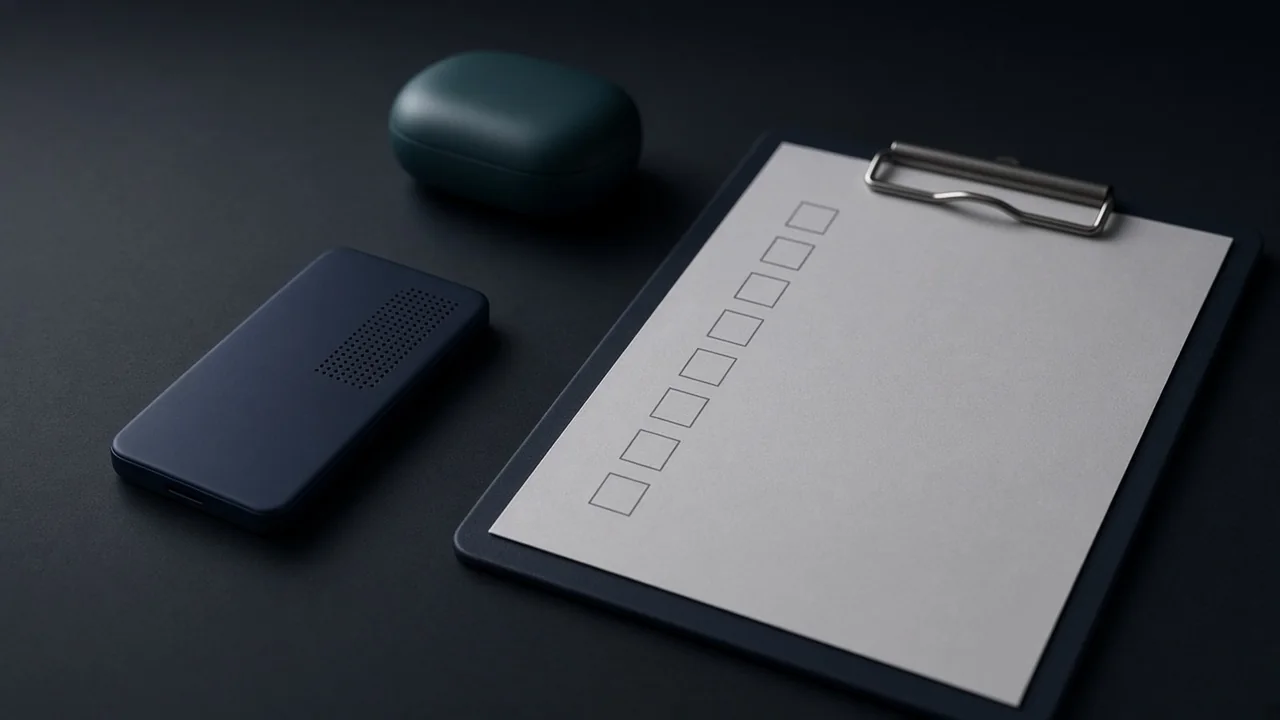
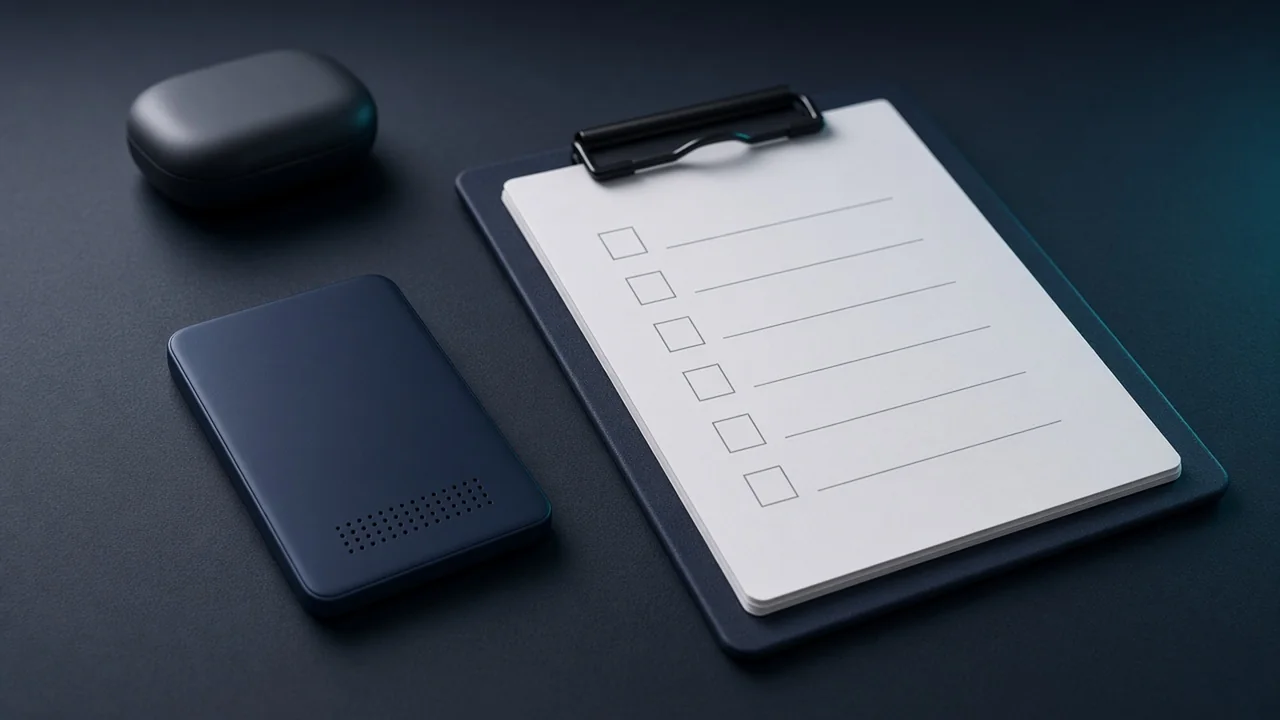
seo: refresh enterprise AI procurement checklist CTR copy and hero (#27)
Ship the Oct 2026 meta and China-to-buyer body on the existing checklist URL, and replace the featured still and eight-step diagram with the gated Grok assets.

diff --git a/content/i18n/resources/en/ai-procurement-checklist.md b/content/i18n/resources/en/ai-procurement-checklist.md
@@ -1,6 +1,8 @@
 Define the business task, the evidence you will trust, the exact SKU and region, the full cost of ownership, and who owns support — before you compare a China-origin AI hardware quotation.
 
-This page is the CNPS.AI **China → buyer** method for enterprise AI procurement. It is written for foreign and enterprise buyers evaluating a China-origin device supplier (for example TicNote recording hardware published on CNPS.AI), not a generic consulting checklist. Availability, commercial terms, and implementation scope are confirmed during quotation. Industry references elsewhere on this site are not claims that CNPS delivered those projects.
+This page is the CNPS.AI **China → buyer** **AI procurement checklist** for **enterprise** buyers (as of **8 October 2026**). It is written for foreign and enterprise buyers evaluating a China-origin device supplier (for example TicNote recording hardware published on CNPS.AI), not a generic consulting checklist. Availability, commercial terms, and implementation scope are confirmed during quotation. Industry references elsewhere on this site are not claims that CNPS delivered those projects.
+
+If you need the public-body path instead, use the sister page once: [AI procurement checklist for public sector: China-origin hardware path](https://www.cnps.ai/en/resources/ai-procurement-checklist-public-sector).
 
 ## Who this checklist is for
 
@@ -9,6 +11,7 @@ Use this checklist when you are:
 - Buying **team or channel sample** AI recording devices, or scoping a small hardware pilot from a China supply path
 - Comparing **unit price** against subscriptions, logistics, destination charges, training, and support
 - Deciding whether to **sample first** or jump to a bulk purchase order
+- Searching for an **enterprise AI procurement checklist** that freezes the job before SKU shopping
 
 If you already know you need a UAE/KSA recording path with bilingual meeting-notes gates, use the dedicated Gulf sourcing method after you freeze the workflow here: [Source China AI recording hardware for UAE/KSA without skipping the pilot](https://www.cnps.ai/en/guides/china-to-gulf-ai-recording-sourcing). If your project is a camera / edge site, complete site readiness before selecting a box: [UAE/KSA edge AI site readiness before you pick a box](https://www.cnps.ai/en/guides/uae-ksa-edge-ai-site-readiness).
 
@@ -135,13 +138,13 @@ Share those details through [Start a conversation](https://www.cnps.ai/en/reques
 | Risk | Brand reputation | Region / radio / data-flow / RMA path |
 | Scale | Bulk PO after demo | Written acceptance on a small pilot |
 
-For the wider CNPS research framing (why overseas buyers place orders, RFQ fields, pilots, compliance gates, and revision history), read the companion once: [China AI: the CNPS global expansion playbook](https://www.cnps.ai/en/resources/china-ai-export-playbook).
+For the wider CNPS research framing (why overseas buyers place orders, RFQ fields, pilots, compliance gates, and revision history), read the companion once: [China AI export playbook for overseas buyers](https://www.cnps.ai/en/resources/china-ai-export-playbook).
 
 ## FAQ
 
 ### What is an AI procurement checklist for enterprise buyers?
 
-It is a decision sequence you run before comparing quotations: freeze the job and acceptance test, demand evidence that matches that decision, lock SKU and region, price the full cost of ownership, confirm support and compliance documents, run a small pilot, then send a structured enquiry. This page applies that sequence to **China-origin AI hardware** paths CNPS publishes — not to abstract model selection alone.
+It is a decision sequence you run before comparing quotations: freeze the job and acceptance test, demand evidence that matches that decision, lock SKU and region, price the full cost of ownership, confirm support and compliance documents, run a small pilot, then send a structured enquiry. An **enterprise AI procurement checklist** on this page applies that sequence to **China-origin AI hardware** paths CNPS publishes — not to abstract model selection alone. Method text last reviewed **8 October 2026**.
 
 ### How is enterprise AI procurement different from buying a retail AI recorder?
 
@@ -163,9 +166,9 @@ Subscriptions or transcription minutes, training time, freight and destination c
 
 Request documents that match the **exact model** you will receive, a clear company contact path, a data-flow explanation you can review, and written support terms. Treat missing SKU-matched evidence as a blocker. Do not accept “similar model” certificates or unverified AI performance percentages as substitutes.
 
-### When should I use the Gulf recording guide instead of this page alone?
+### When should I use the public-sector checklist or the Gulf recording guide instead of this page alone?
 
-When your destination is UAE or KSA **and** your workflow is meeting notes / recording hardware with bilingual quality gates. Complete this checklist’s job and sample gates first, then follow the Gulf sourcing method linked above before a bulk PO. Edge camera projects should use the UAE/KSA site readiness guide before selecting hardware.
+Use the public-sector sister page linked in the opening (exact title: **AI procurement checklist for public sector: China-origin hardware path**) when a public body needs purpose, data-protection, audit, and accountable-acceptance gates. Use the Gulf recording guide when your destination is UAE or KSA **and** your workflow is meeting notes / recording hardware with bilingual quality gates — after you freeze the job here. Edge camera projects should use the UAE/KSA site readiness guide before selecting hardware.
 
 ## Next step
 

diff --git a/content/resources/ai-procurement-checklist.md b/content/resources/ai-procurement-checklist.md
@@ -1,6 +1,8 @@
 Define the business task, the evidence you will trust, the exact SKU and region, the full cost of ownership, and who owns support — before you compare a China-origin AI hardware quotation.
 
-This page is the CNPS.AI **China → buyer** method for enterprise AI procurement. It is written for foreign and enterprise buyers evaluating a China-origin device supplier (for example TicNote recording hardware published on CNPS.AI), not a generic consulting checklist. Availability, commercial terms, and implementation scope are confirmed during quotation. Industry references elsewhere on this site are not claims that CNPS delivered those projects.
+This page is the CNPS.AI **China → buyer** **AI procurement checklist** for **enterprise** buyers (as of **8 October 2026**). It is written for foreign and enterprise buyers evaluating a China-origin device supplier (for example TicNote recording hardware published on CNPS.AI), not a generic consulting checklist. Availability, commercial terms, and implementation scope are confirmed during quotation. Industry references elsewhere on this site are not claims that CNPS delivered those projects.
+
+If you need the public-body path instead, use the sister page once: [AI procurement checklist for public sector: China-origin hardware path](https://www.cnps.ai/en/resources/ai-procurement-checklist-public-sector).
 
 ## Who this checklist is for
 
@@ -9,6 +11,7 @@ Use this checklist when you are:
 - Buying **team or channel sample** AI recording devices, or scoping a small hardware pilot from a China supply path
 - Comparing **unit price** against subscriptions, logistics, destination charges, training, and support
 - Deciding whether to **sample first** or jump to a bulk purchase order
+- Searching for an **enterprise AI procurement checklist** that freezes the job before SKU shopping
 
 If you already know you need a UAE/KSA recording path with bilingual meeting-notes gates, use the dedicated Gulf sourcing method after you freeze the workflow here: [Source China AI recording hardware for UAE/KSA without skipping the pilot](https://www.cnps.ai/en/guides/china-to-gulf-ai-recording-sourcing). If your project is a camera / edge site, complete site readiness before selecting a box: [UAE/KSA edge AI site readiness before you pick a box](https://www.cnps.ai/en/guides/uae-ksa-edge-ai-site-readiness).
 
@@ -135,13 +138,13 @@ Share those details through [Start a conversation](https://www.cnps.ai/en/reques
 | Risk | Brand reputation | Region / radio / data-flow / RMA path |
 | Scale | Bulk PO after demo | Written acceptance on a small pilot |
 
-For the wider CNPS research framing (why overseas buyers place orders, RFQ fields, pilots, compliance gates, and revision history), read the companion once: [China AI: the CNPS global expansion playbook](https://www.cnps.ai/en/resources/china-ai-export-playbook).
+For the wider CNPS research framing (why overseas buyers place orders, RFQ fields, pilots, compliance gates, and revision history), read the companion once: [China AI export playbook for overseas buyers](https://www.cnps.ai/en/resources/china-ai-export-playbook).
 
 ## FAQ
 
 ### What is an AI procurement checklist for enterprise buyers?
 
-It is a decision sequence you run before comparing quotations: freeze the job and acceptance test, demand evidence that matches that decision, lock SKU and region, price the full cost of ownership, confirm support and compliance documents, run a small pilot, then send a structured enquiry. This page applies that sequence to **China-origin AI hardware** paths CNPS publishes — not to abstract model selection alone.
+It is a decision sequence you run before comparing quotations: freeze the job and acceptance test, demand evidence that matches that decision, lock SKU and region, price the full cost of ownership, confirm support and compliance documents, run a small pilot, then send a structured enquiry. An **enterprise AI procurement checklist** on this page applies that sequence to **China-origin AI hardware** paths CNPS publishes — not to abstract model selection alone. Method text last reviewed **8 October 2026**.
 
 ### How is enterprise AI procurement different from buying a retail AI recorder?
 
@@ -163,9 +166,9 @@ Subscriptions or transcription minutes, training time, freight and destination c
 
 Request documents that match the **exact model** you will receive, a clear company contact path, a data-flow explanation you can review, and written support terms. Treat missing SKU-matched evidence as a blocker. Do not accept “similar model” certificates or unverified AI performance percentages as substitutes.
 
-### When should I use the Gulf recording guide instead of this page alone?
+### When should I use the public-sector checklist or the Gulf recording guide instead of this page alone?
 
-When your destination is UAE or KSA **and** your workflow is meeting notes / recording hardware with bilingual quality gates. Complete this checklist’s job and sample gates first, then follow the Gulf sourcing method linked above before a bulk PO. Edge camera projects should use the UAE/KSA site readiness guide before selecting hardware.
+Use the public-sector sister page linked in the opening (exact title: **AI procurement checklist for public sector: China-origin hardware path**) when a public body needs purpose, data-protection, audit, and accountable-acceptance gates. Use the Gulf recording guide when your destination is UAE or KSA **and** your workflow is meeting notes / recording hardware with bilingual quality gates — after you freeze the job here. Edge camera projects should use the UAE/KSA site readiness guide before selecting hardware.
 
 ## Next step
 

diff --git a/docs/strategy/unique-editorial-image-provenance.md b/docs/strategy/unique-editorial-image-provenance.md
@@ -107,13 +107,13 @@ Constraints: No readable text, no logos, no watermark, no people or hands, no ad
 - Inline method diagrams: `web/assets/resources/ufactory-xarm-production-line-checklist-steps.webp` and `web/assets/resources/ufactory-xarm-production-line-checklist-owners.webp`
 - English alt (authoritative): Dark workcell desk: blank readiness checklist beside a bolted arm base plate and faint cell boundary — production-line freeze method, no certificates
 
-## ai-procurement-checklist (REFRESH-04)
+## ai-procurement-checklist (O01 CTR refresh, Oct 2026)
 
-- Date: 2026-09-15
-- Source: Grok-generated still-life hero plus two method diagrams; leizi retail-tone PASS
+- Date: 2026-10-08
+- Source: Grok still-life hero and eight-step diagram for the enterprise checklist CTR refresh. leizi Mode B content GATE PASS-with-soft; IMAGE SPOT PASS-with-soft (hero has about seven blank clipboard rows; recorder is a bit blocky; the optional evidence/TCO third image was not regenerated)
 - Concept only — not product evidence, not a SKU photograph, not certificates or scores
-- Original: `web/assets/editorial/originals/ai-procurement-checklist.png` (JPG-derived PNG from 1600×900 hero)
-- Responsive OG/hero: `web/assets/editorial/ai-procurement-checklist-640.webp` and `web/assets/editorial/ai-procurement-checklist-1280.webp`
-- Inline method diagrams: `web/assets/resources/ai-procurement-checklist-8-steps.webp` and `web/assets/resources/ai-procurement-checklist-evidence-tco.webp`
+- Original: `web/assets/editorial/originals/ai-procurement-checklist.png` (1600×900 hero PNG)
+- Responsive OG/hero: `web/assets/editorial/ai-procurement-checklist-640.webp` (640×360) and `web/assets/editorial/ai-procurement-checklist-1280.webp` (1280×720), libwebp quality 84, original 16:9 kept
+- Inline method diagram: `web/assets/resources/ai-procurement-checklist-8-steps.webp` (1600×900, lossless WebP). Prior evidence/TCO diagram kept at `web/assets/resources/ai-procurement-checklist-evidence-tco.webp` because the third image was skipped
 - English alt (authoritative): Checklist clipboard and compact AI recorder on a dark desk — enterprise procurement method hero, no fake certificates
 

diff --git a/docs/strategy/editorial-image-provenance.md b/docs/strategy/editorial-image-provenance.md
@@ -14,9 +14,9 @@ The originals remain unchanged in their default generated-image location and wer
 | meeting | 23,110 | 61,382 | Concept meeting workspace with an unbranded recorder, headphones and notebook |
 | edge | 27,236 | 67,536 | Concept edge-compute module on a laboratory inspection bench |
 
-## ai-procurement-checklist (REFRESH-04)
+## ai-procurement-checklist (O01 CTR refresh, Oct 2026)
 
-Grok-generated, leizi retail-tone PASS 2026-09-15. Concept only — not product evidence. Hero plus two method diagrams; see `docs/strategy/unique-editorial-image-provenance.md`.
+Grok hero and eight-step diagram, 2026-10-08. leizi Mode B PASS-with-soft and IMAGE SPOT PASS-with-soft. Concept only — not product evidence. Evidence/TCO diagram from the prior refresh was kept (third image skipped). See `docs/strategy/unique-editorial-image-provenance.md`.
 
 ## knowledge
 
